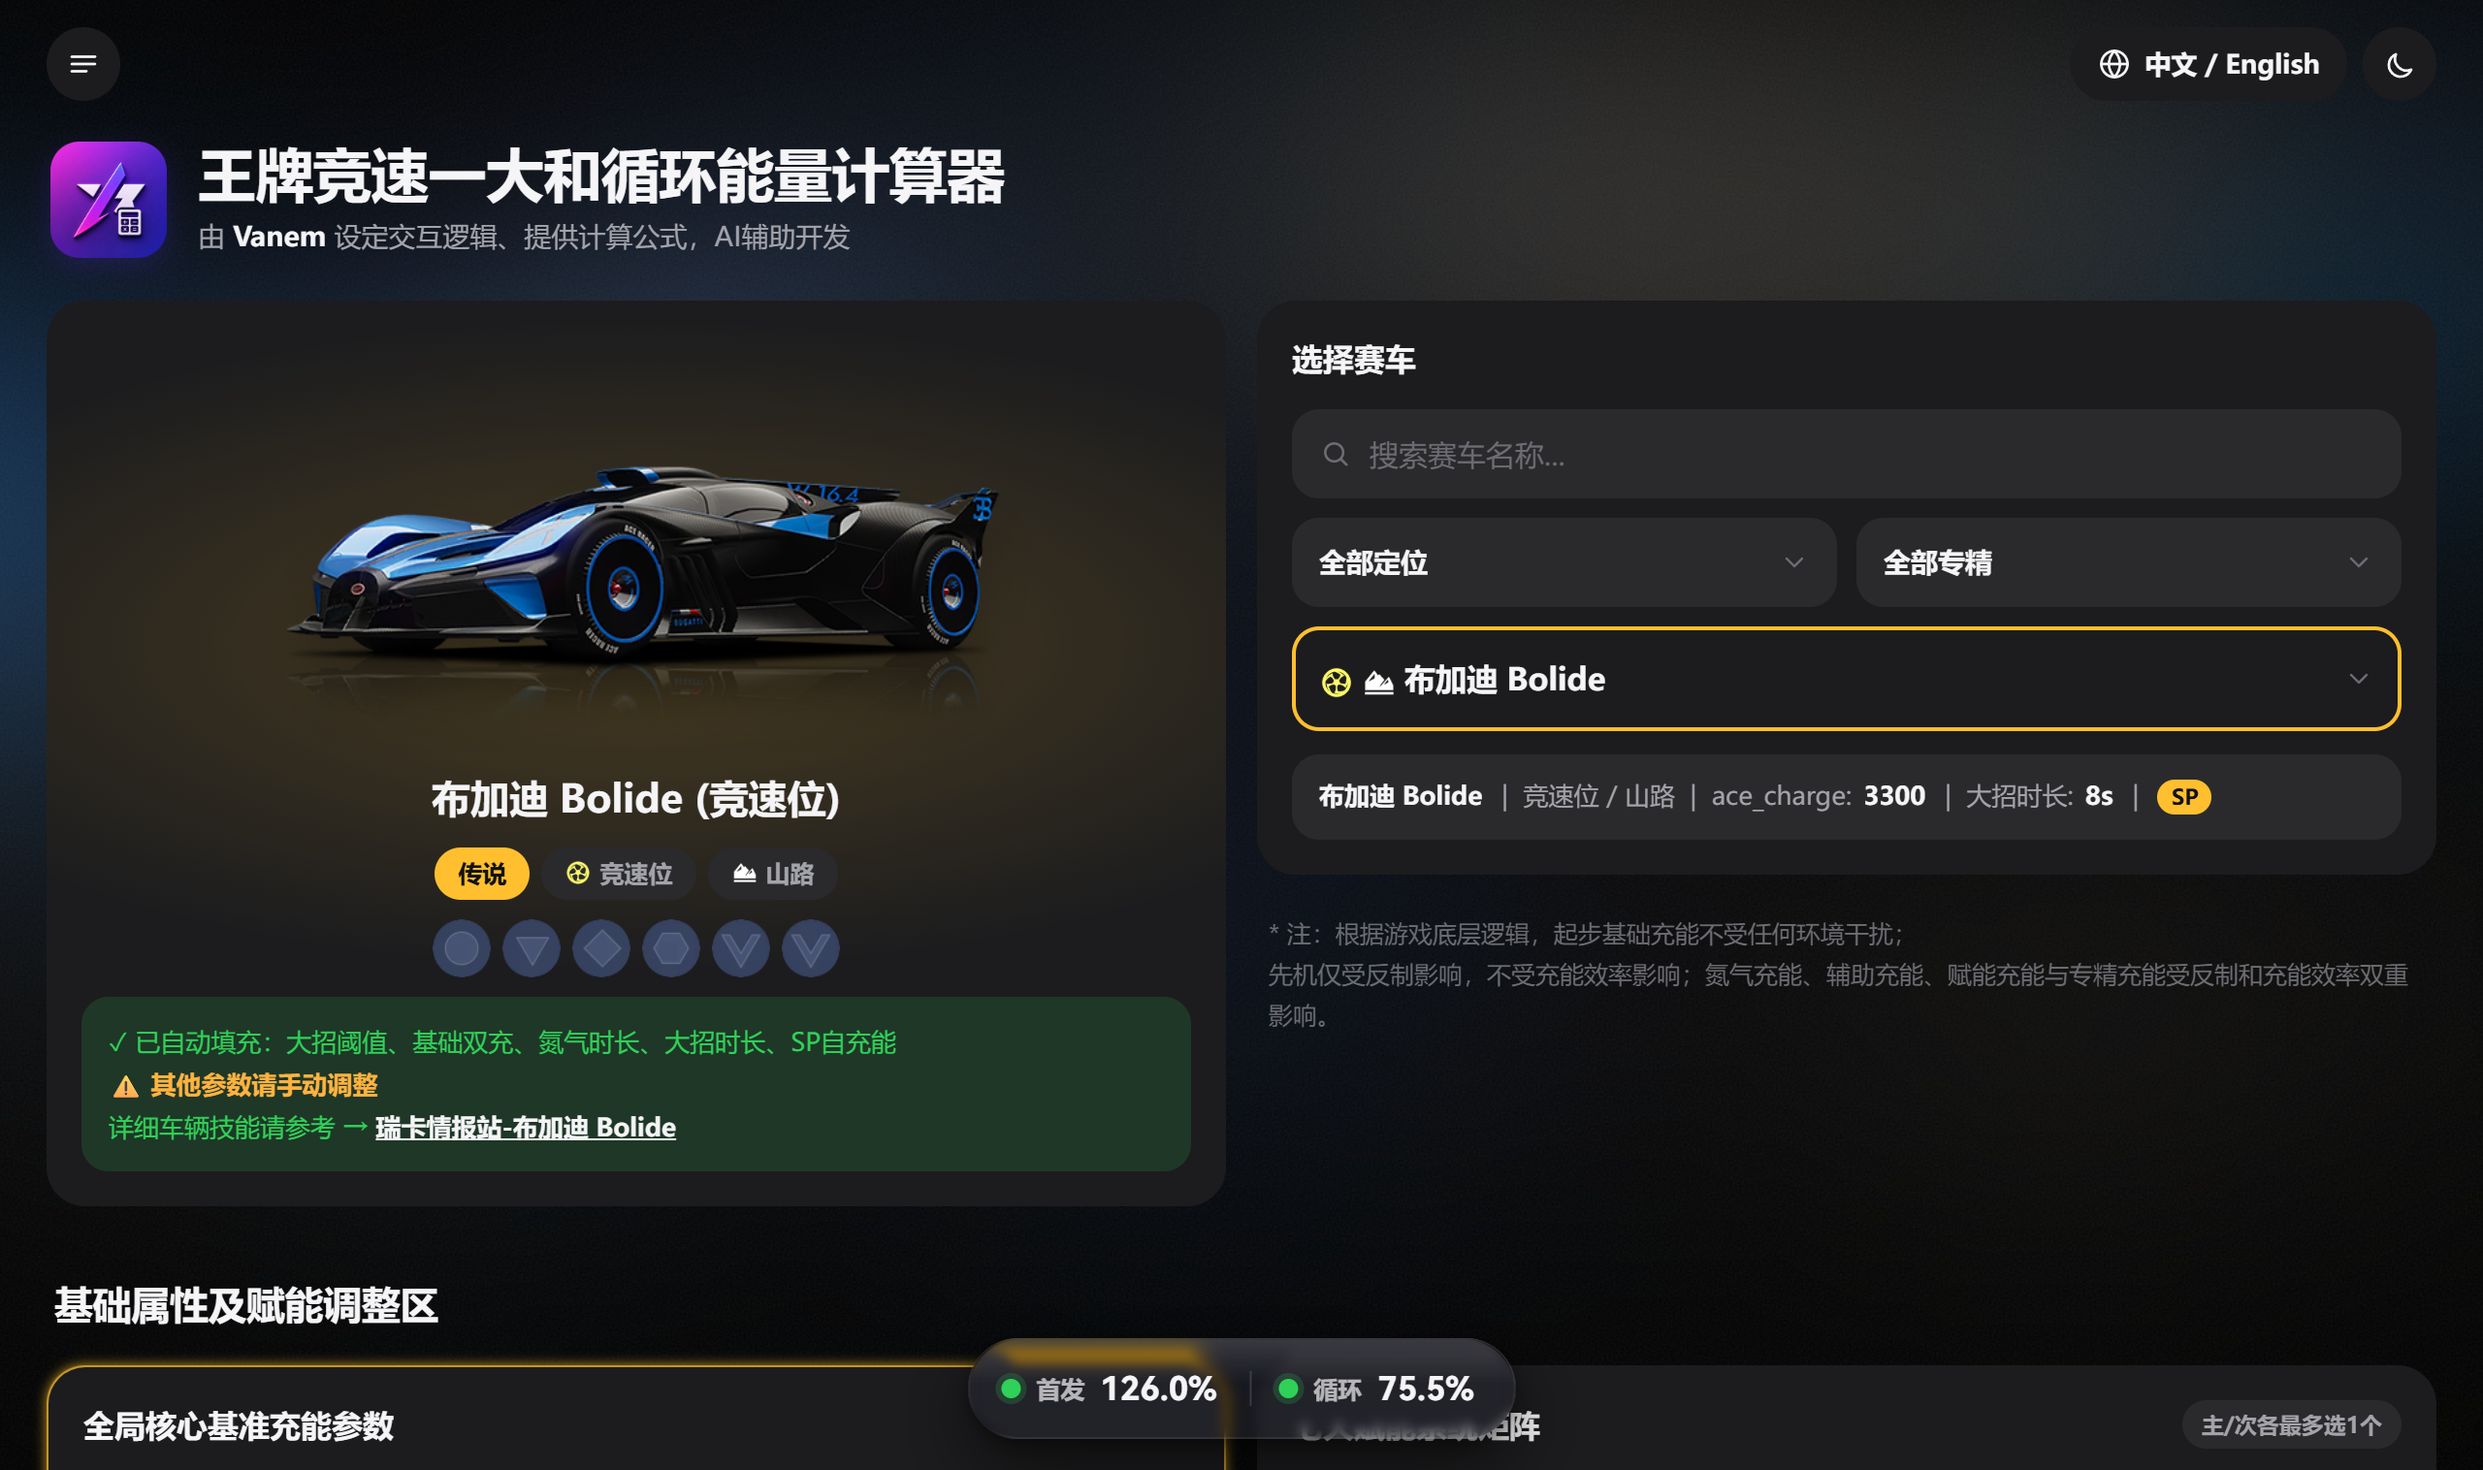
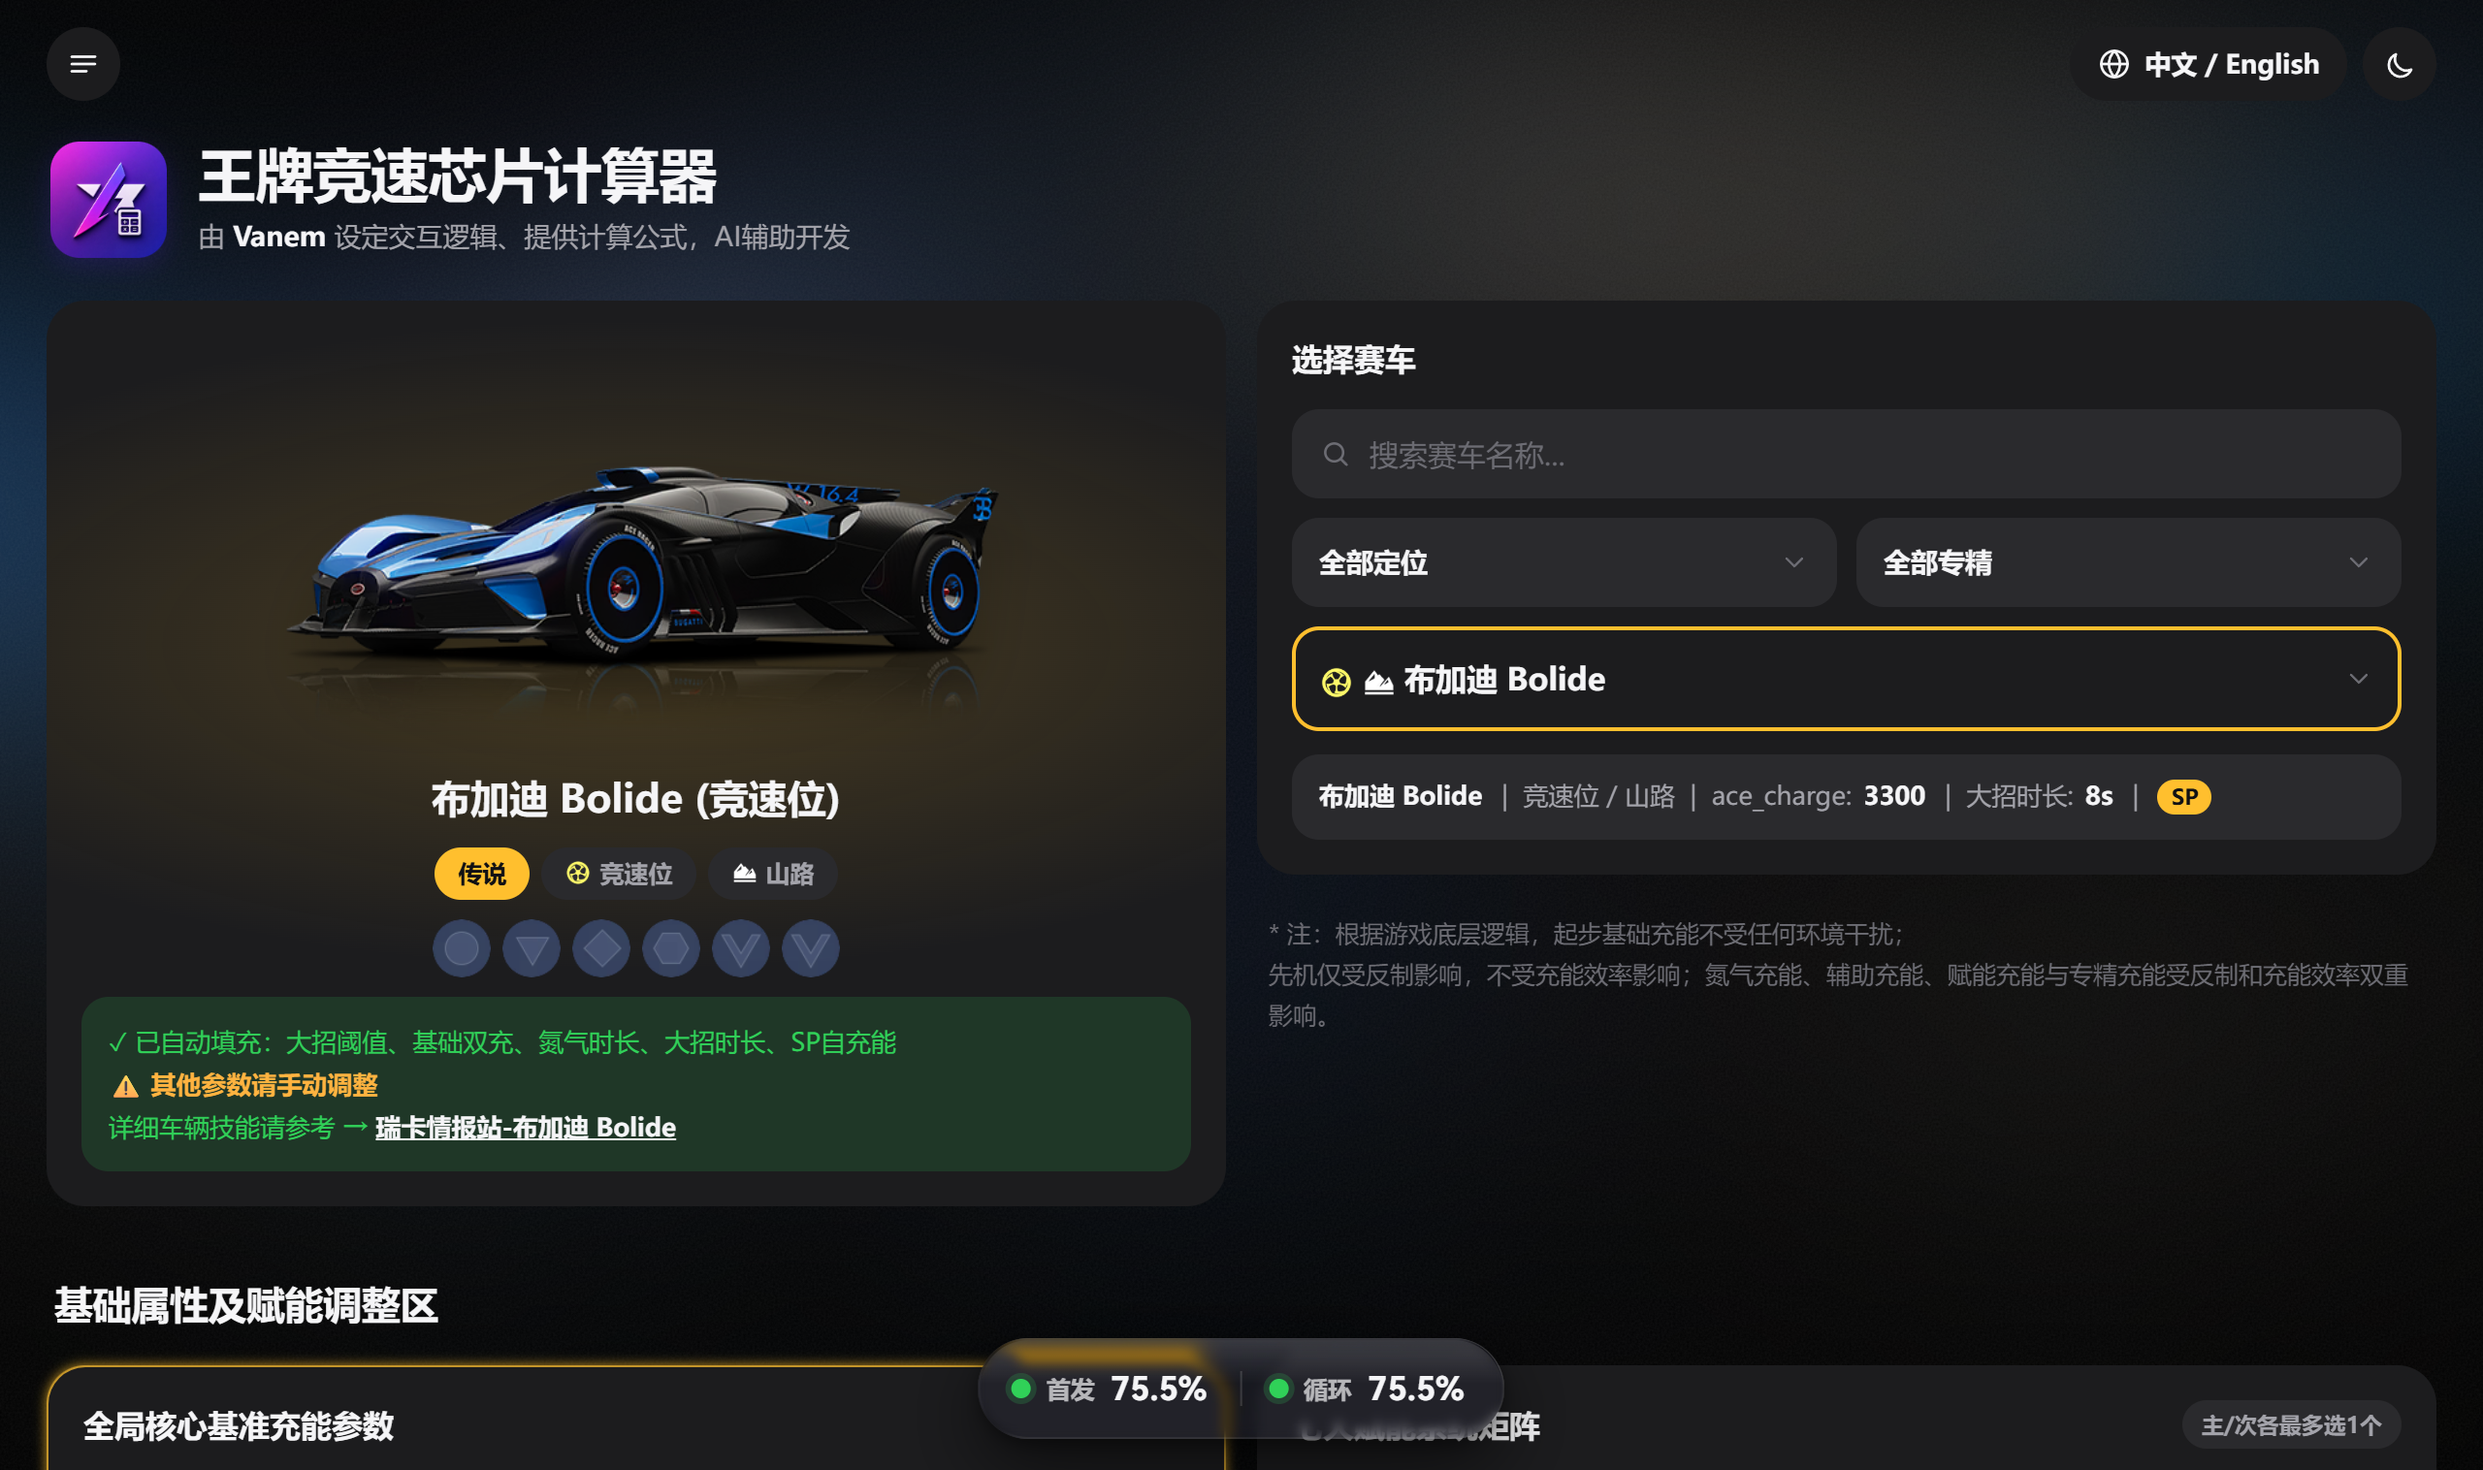
feat: 站名统一为「王牌竞速芯片计算器」
- 页面内大标题（markup.mjs 的 header）由「王牌竞速一大和循环能量计算器」改为「王牌竞速芯片计算器」
  （英文 Ace Racer Chip Calculator）。
- 站点原本并存三种叫法（大标题 / 标签页·分享卡片·结构化数据 / manifest），现统一为同一个名字：
  浏览器标签页标题（语言初始化 + 语言切换两处，中英同步）、静态 <title>、og:title、
  og:site_name、twitter:title、结构化数据 JSON-LD 的 name、长截图导出底部水印、
  <noscript> 兜底页标题、manifest.json 的 name。
- 主屏短标签保留「王牌计算器 / Ace Calc」——那是刻意做短的标签，不是站名。
- 同步重拍 6 张 PWA 截图（页面顶部含大标题的那几张）。
- 改动全部通过构建期 patch() / head 替换落地，补丁带自校验（未命中或仍有旧名会直接构建失败）；
  未触碰任何计算与交互逻辑。

Changed region(s): [[0.1562, 0.093, 0.4062, 0.155], [0.4062, 0.9301, 0.5938, 0.9611], [0.5938, 0.9611, 0.625, 0.9921]]

diff --git a/index.html b/index.html
@@ -8,14 +8,14 @@
    <link rel="canonical" href="https://aceracercalc.top/">
    <meta name="baidu-site-verification" content="codeva-hGw9DMI8F3" />
    <meta name="mobile-agent" content="format=html5;url=https://aceracercalc.top/">
-   <title>王牌竞速 - 大招能量精密计算器</title>
+   <title>王牌竞速芯片计算器</title>
    
    <!-- 基础 SEO -->
    <meta name="description" content="王牌竞速芯片计算器，高精度大招能量与循环测算工具，支持全赛车芯片能量计算、智能芯片联动面板，精准测算循环周期与能量回复">
    <meta name="keywords" content="王牌竞速,芯片计算器,大招能量,计算器,循环测算,赛车,芯片,能量回复,先机芯片">
 
    <!-- Open Graph (抖音/微博/Facebook 等社媒分享) -->
-   <meta property="og:title" content="王牌竞速 - 大招能量精密计算器">
+   <meta property="og:title" content="王牌竞速芯片计算器">
    <meta property="og:description" content="王牌竞速芯片计算器，高精度大招能量与循环测算工具，智能芯片联动面板">
    <meta property="og:type" content="website">
    <meta property="og:url" content="https://aceracercalc.top/">
@@ -23,12 +23,12 @@
    <meta property="og:image:width" content="1200">
    <meta property="og:image:height" content="630">
    <meta property="og:image:type" content="image/png">
-   <meta property="og:site_name" content="王牌竞速计算器">
+   <meta property="og:site_name" content="王牌竞速芯片计算器">
    <meta property="og:locale" content="zh_CN">
 
    <!-- Twitter Card (兜底兼容) -->
    <meta name="twitter:card" content="summary">
-   <meta name="twitter:title" content="王牌竞速 - 大招能量精密计算器">
+   <meta name="twitter:title" content="王牌竞速芯片计算器">
    <meta name="twitter:description" content="王牌竞速芯片计算器，高精度大招能量与循环测算工具，智能芯片联动面板">
    <meta name="twitter:image" content="https://aceracercalc.top/share-icon.png">
 
@@ -37,7 +37,7 @@
    {
      "@context": "https://schema.org",
      "@type": "WebApplication",
-     "name": "王牌竞速 - 大招能量精密计算器",
+     "name": "王牌竞速芯片计算器",
      "url": "https://aceracercalc.top/",
      "description": "王牌竞速芯片计算器，高精度大招能量与循环测算工具，智能芯片联动面板",
      "image": "https://aceracercalc.top/share-icon.png",
@@ -314,7 +314,7 @@ var _CAR_IMG = {
         
         if (currentLang === 'en') {
            document.documentElement.lang = 'en';
-           document.title = 'Ace Racer - Ult Energy Calculator';
+           document.title = 'Ace Racer Chip Calculator';
            let metaAppTitle = document.querySelector('meta[name="apple-mobile-web-app-title"]');
            if (metaAppTitle) metaAppTitle.content = 'Ace Calc';
        }
@@ -915,7 +915,7 @@ body.ds-c.performance-mode .ds-dock { background: var(--cell); }
 <script>try{var __t=localStorage.getItem('theme');if(typeof __t==='string'&&(__t==='light'||(__t==='system'&&!(window.matchMedia&&window.matchMedia('(prefers-color-scheme: dark)').matches))))document.body.classList.add('light-mode');}catch(e){}</script>
 <noscript>
       <div style="padding:40px;max-width:800px;margin:0 auto;font-family:sans-serif;">
-        <h1>Ace Racer - Ultimate Energy Calculator</h1>
+        <h1>Ace Racer Chip Calculator</h1>
         <p>Ace Racer high-precision energy calculation tool. Supports full vehicle ult energy calculation, precise cycle period and energy recovery estimation. Logic & formulas by Vanem, AI assisted development.</p>
         <p>Please enable JavaScript to use the full calculator. Visit: <a href="https://aceracercalc.top/">aceracercalc.top</a></p>
       </div>
@@ -954,7 +954,7 @@ body.ds-c.performance-mode .ds-dock { background: var(--cell); }
 <div class="header">
   <img class="brand-mark" src="https://i0.hdslb.com/bfs/openplatform/98b8c12bc7177aa56b9b3c75b3a5b1cda3fad086.jpg" alt="" width="44" height="44" crossorigin="anonymous">
   <div class="brand-text">
-    <h1><span class="zh">王牌竞速一大和循环能量计算器</span><span class="lang-en">Ace Racer First Ult &amp; Loop Calculator</span></h1>
+    <h1><span class="zh">王牌竞速芯片计算器</span><span class="lang-en">Ace Racer Chip Calculator</span></h1>
     <p><span class="zh">由 <a href="https://v.douyin.com/AEe8wPEHZp0/" target="_blank" rel="noopener">Vanem</a> 设定交互逻辑、提供计算公式，AI辅助开发</span><span class="lang-en">Logic &amp; Formulas by <a href="https://v.douyin.com/AEe8wPEHZp0/" target="_blank" rel="noopener">Vanem</a>, AI Assisted</span></p>
   </div>
 </div>
@@ -2544,7 +2544,7 @@ function __tok(n, d) { var v = getComputedStyle(document.body).getPropertyValue(
                    
                    ctx.fillStyle = isLight ? '#4a5568' : '#8e9aaf';
                    ctx.font = (13 * scaleMultiplier) + 'px -apple-system, BlinkMacSystemFont, sans-serif';
-                   ctx.fillText(_('王牌竞速 · 大招能量精密计算器', 'Ace Racer · Ult Energy Calculator'), newCanvas.width / 2, canvas.height + (52 * scaleMultiplier));
+                   ctx.fillText(_('王牌竞速芯片计算器', 'Ace Racer Chip Calculator'), newCanvas.width / 2, canvas.height + (52 * scaleMultiplier));
                    
                    var link = document.createElement('a');
                    var dateStr = new Date().toISOString().slice(0,10).replace(/-/g,"");
@@ -3440,7 +3440,7 @@ function __tok(n, d) { var v = getComputedStyle(document.body).getPropertyValue(
             currentLang = currentLang === 'zh' ? 'en' : 'zh';
             document.body.classList.toggle('en-mode', currentLang === 'en');
             document.documentElement.lang = currentLang === 'en' ? 'en' : 'zh-CN';
-            document.title = currentLang === 'en' ? 'Ace Racer - Ult Energy Calculator' : '王牌竞速 - 大招能量精密计算器';
+            document.title = currentLang === 'en' ? 'Ace Racer Chip Calculator' : '王牌竞速芯片计算器';
             let metaAppTitle = document.querySelector('meta[name="apple-mobile-web-app-title"]');
             if (metaAppTitle) {
                 metaAppTitle.content = currentLang === 'en' ? 'Ace Calc' : '王牌计算器';
